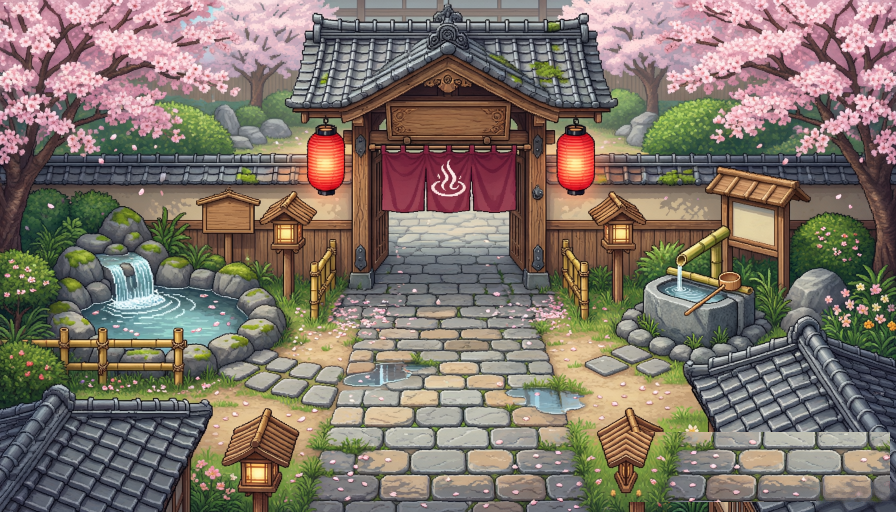
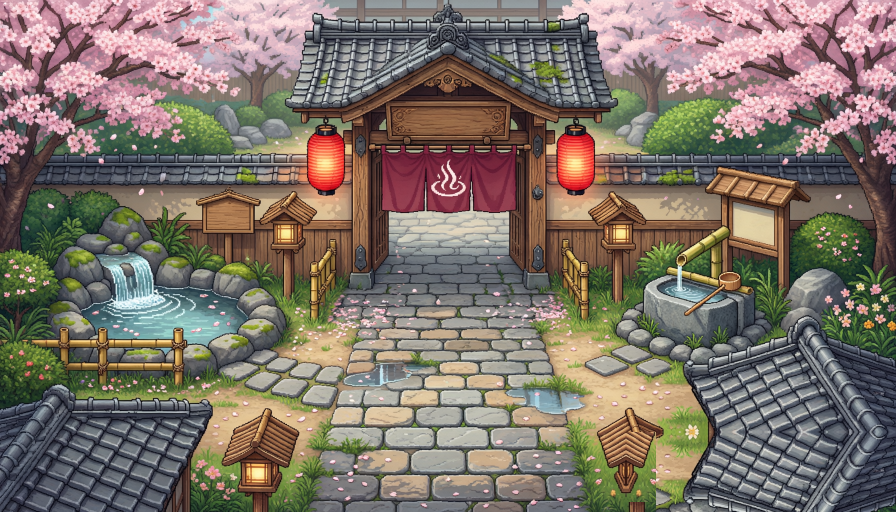
fix(art): 三张背景右下角那道一刀切的接缝，按断裂形态分两种手法收掉
外来贴图块（榻榻米砖纹、被切平的瓦顶）拿邻近同质区镜像平移补上，接缝逐像素相同；
title 那条不是错位而是两张不同曝光的图叠在 y=432——竹篱脚、水洼边、半截脚掌都断在
线上，图案本身还连着，于是把线以下翻上来按距离衰减盖回去：线上两侧完全相同，硬边
消失，离线越远越退回原样，竹篱上半截和屋檐不动。手法写进 bg_seam_fix.py，可重跑。

Changed region(s): [[0.7188, 0.8438, 1.0, 1.0]]

diff --git a/godot/tools/bg_seam_fix.py b/godot/tools/bg_seam_fix.py
@@ -1,0 +1,78 @@
+#!/usr/bin/env python
+# -*- coding: utf-8 -*-
+"""三张背景右下角的拼接断裂修复，可重跑。
+
+两种手法，按断裂的形态选：
+  mirror   —— 那块矩形是从别处贴来的外来内容，纹理方向都对不上。拿邻近同宽的同质区域
+              镜像平移过去，接缝处逐像素相同。镜像而非平移：平移会留 1 像素跳变。
+  dissolve —— 图案其实连着，只是两张不同曝光的图沿一条直线叠在一起（竹篱脚、水洼边、
+              半截脚掌都被切在这条线上）。把线以下翻上来按距离衰减盖回去：线上两侧
+              完全相同，硬边消失；离线越远衰减到 0，竹篱上半截和屋檐不受影响。
+
+默认只写到 vibe_images/_tmp/ 供肉眼验收，--apply 才写回 godot/assets/bg/。
+"""
+import argparse
+import os
+import sys
+
+import numpy as np
+from PIL import Image
+
+ROOT = os.path.join("godot", "assets", "bg")
+TMP = os.path.join("vibe_images", "_tmp")
+
+# (边界行, x 起, x 止, 消缝厚度)
+TITLE_DISSOLVE = [
+    (432, 706, 856, 14),   # 竹篱脚 + 水洼底 + 两只被切一半的脚掌
+    (432, 620, 700, 10),   # 黑猫脚下那条亮带
+    (472, 740, 896, 8),    # 同一条铺路石，上阴下阳的色温台阶
+]
+
+MIRROR = {
+    "room-chashitsu.png": [((672, 432, 784, 512), (784, 432), "x")],
+    "map-gate.png": [((656, 352, 896, 432), (656, 432), "y")],
+}
+
+
+def apply_mirror(im, ops):
+    for (sx0, sy0, sx1, sy1), (dx, dy), axis in ops:
+        patch = im.crop((sx0, sy0, sx1, sy1))
+        flip = Image.FLIP_LEFT_RIGHT if axis == "x" else Image.FLIP_TOP_BOTTOM
+        im.paste(patch.transpose(flip), (dx, dy))
+
+
+def apply_dissolve(im, jobs):
+    a = np.asarray(im.convert("RGB")).astype(float)
+    for yb, x0, x1, depth in jobs:
+        for k in range(depth):
+            w = 1.0 - k / depth
+            a[yb - 1 - k, x0:x1] *= 1.0 - w
+            a[yb - 1 - k, x0:x1] += a[yb + k, x0:x1] * w
+    return Image.fromarray(np.rint(a).astype(np.uint8))
+
+
+def main():
+    ap = argparse.ArgumentParser()
+    ap.add_argument("--apply", action="store_true", help="写回 godot/assets/bg/，否则只出 _tmp 预览")
+    args = ap.parse_args()
+
+    os.makedirs(TMP, exist_ok=True)
+    for name in sorted(set(list(MIRROR) + ["title.png"])):
+        src = os.path.join(ROOT, name)
+        im = Image.open(src).convert("RGB")
+        if name in MIRROR:
+            apply_mirror(im, MIRROR[name])
+        if name == "title.png":
+            im = apply_dissolve(im, TITLE_DISSOLVE)
+        if args.apply:
+            im.save(src)
+            print("applied", src)
+        else:
+            out = os.path.join(TMP, "fixed_" + name)
+            im.save(out)
+            print("preview", out, im.size)
+    return 0
+
+
+if __name__ == "__main__":
+    sys.exit(main())
